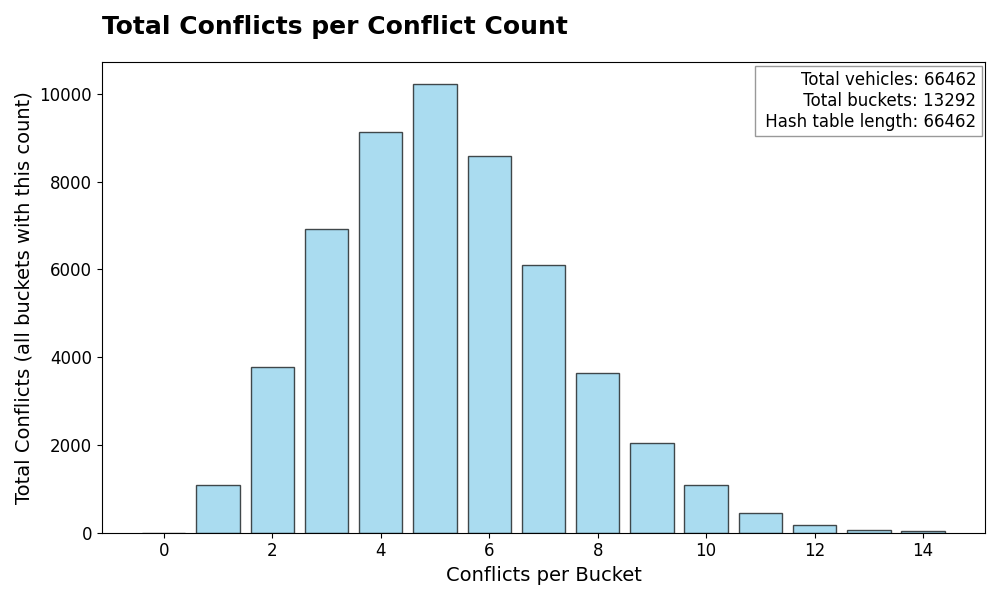
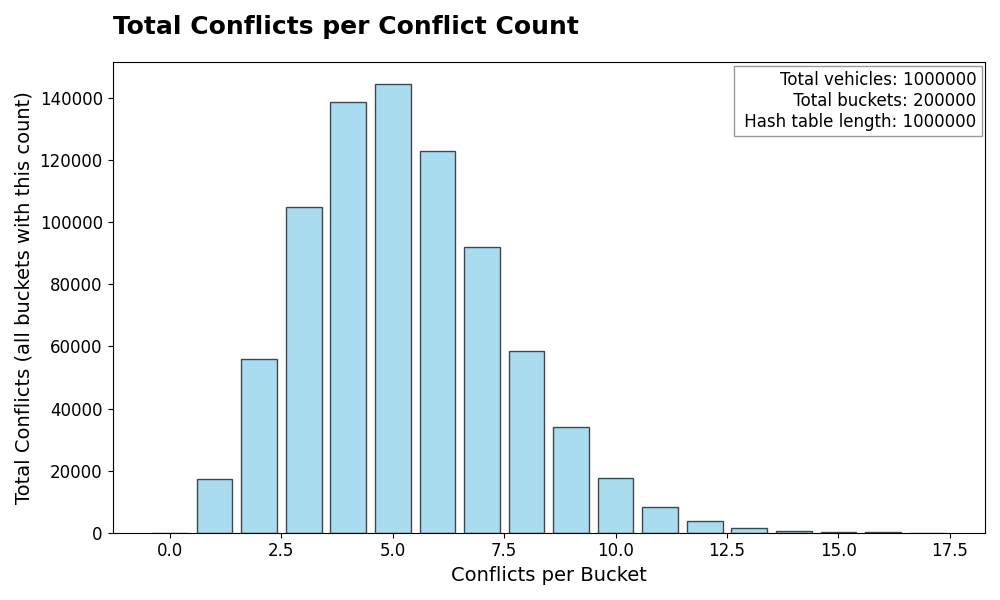
Task 5 is completly done now

diff --git a/MatPlot.py b/MatPlot.py
@@ -5,7 +5,7 @@ from collections import Counter
 import matplotlib.pyplot as plt
 
 def GenerateGraphs():
-  random_int = random.randint(10_000, 100_000)
+  random_int = 1_000_000
   vehicles = [Vehicle() for _ in range(random_int)]
   
   num_of_buckets = random_int // 5

diff --git a/README.md b/README.md
@@ -2,32 +2,59 @@
 
 We are tasked with implementing different tasks. This is the second assignment for the course 1DV018 at Linnaeus University.
 
-## För och nackdelar med Länkade listor jämfört med ArrayList
+## Requirements
 
-### Fördelar med Länkade listor
+- Python 3.8 or higher
+- Matplotlib
+
+## How to run
+
+1. Start by downloading all the requirements:
+
+```bash
+pip install -r requirements.txt
+```
+
+2. Run the project:
+
+```bash
+python main.py
+```
+
+3. To generate the graphs for task 5, run: ***(Optional)***
+
+```bash
+python MatPlot.py
+```
+
+## Analysis and Conclusions in Swedish
+
+### För och nackdelar med Länkade listor jämfört med ArrayList
+
+#### Fördelar med Länkade listor
 
 - Dynamisk storlek - Ingen förutbestämd storlek behövs
 - Snabbare insättning - om vi sätter in i mitten av listan behöver vi bara ändra pekare
 - Tar inte upp samma mängd minne i förväg
 
-### Nackdelar med Länkade listor
+#### Nackdelar med Länkade listor
 
 - Långsammare sökning - vi måste iterera genom listan för att hitta ett element
 - Tar upp mer minne per element, då varje element behöver en pekare till nästa element
 
-### Fördelar med ArrayList
+#### Fördelar med ArrayList
 
 - Snabbare sökning - vi kan direkt komma åt element med hjälp av index
 - Bättre om vi har en "fast" storlek eller om vi sällan ändrar storlek
 - Tar upp mindre minne per element då vi inte behöver pekare
 
-### Nackdelar med ArrayList
+#### Nackdelar med ArrayList
 
 - "Fast" storlek. Ska vi ändra storlek måste vi skapa en ny array och kopiera över alla element
 - Långsammare insättning - Om vi måste sätta in i mitten av listan måste alla element efter den positionen flyttas
 - Tar upp mer minne i förväg - ArrayList allokerar mer minne än vad som behövs för att minska antalet gånger den behöver ändra storlek
 
-### Slutsats
+#### Slutsats
 
 Båda strukturerna har sina för- och nackdelar. I praktiken vet vi ofta ungefär hur stor listan kommer att bli, och då är en ArrayList ofta det bättre valet. Nackdelen är att en ArrayList måste växa genom omallokering och kopiering, vilket kan vara kostsamt. Här har länkade listor en fördel eftersom de inte behöver reservera minne i förväg.
 
@@ -35,14 +62,26 @@ Den största nackdelen med länkade listor är att det tar längre tid att hitta
 
 En annan styrka hos länkade listor är insättningar och borttagningar: när vi väl är på rätt plats behöver vi bara ändra pekarna för två element. I en ArrayList måste däremot alla efterföljande element flyttas, vilket gör operationen långsammare. Samtidigt hur ofta lägger vi egentligen till eller tar bort element i mitten av en lista i praktiken?
 
-## Test Uppgift 2
+### Test Uppgift 2
 
 Alla test går igenom utan problem. Vi testar både `size` och `is_empty` metoderna i vår `Task2.py` fil. Samt kastar vi undantag när vi försöker ta bort element från en tom lista.
 
 Vill du se koden för testerna så finns den i `/test/Test_Task2.py`.
 
-## Uppgift 3 - Binärt sökträd
+### Uppgift 3 - Binärt sökträd
 
 Metoden för att radera de `k` element heter `special_operation`. Den tar in ett värde på `k` och raderar de `k` största elementen i trädet.
 Om `k` är större än antalet element i trädet kastas ett undantag.
 Vi går igenom trädet med hjälp utav `in_order` metoden som returnerar en sorterad lista med alla element i trädet. Vi tar sedan de sista `k` elementen i listan och raderar dem med hjälp av `remove` metoden.
+
+### Uppgift 5 - Analys
+
+![Data](./graphs/hash_table_conflicts.png)
+
+För att genomföra detta experiment har jag först skapat en klass ``Vehicle`` som implementerar en hashfunktion och genererar ett unikt registreringsnummer. Registreringsnumret är en sträng som följer de nya reglerna för svenska registreringsskyltar (tre bokstäver följt av två siffror och en bokstav).
+
+Därefter genererade jag 1 000 000 fordon och lade in dem i en hashtabell, vars storlek bestämdes enligt tumregeln ``n/5``. I detta fall innebär det att tabellen hade 200 000 positioner. Under processen räknade jag antalet konflikter som uppstod när fordonen placerades i tabellen.
+
+Vad kan vi förvänta oss? Med 1 000 000 fordon och en tabellstorlek på 200 000 innebär det att varje position i genomsnitt bör innehålla ungefär 5 fordon (1 000 000 / 200 000 = 5).
+
+Resultatet bekräftar denna förväntning. I grafen ser vi att de flesta positioner i tabellen innehåller mellan 3 och 6 fordon, med en tydlig topp vid 5 fordon. Detta överensstämmer väl med den teoretiska fördelningen. Utifrån detta kan vi dra slutsatsen att vår hashfunktion fungerar bra. Den fördelar registreringsnumren jämnt över tabellen och ger det jämna mönster av konflikter som vi hade förväntat oss.
